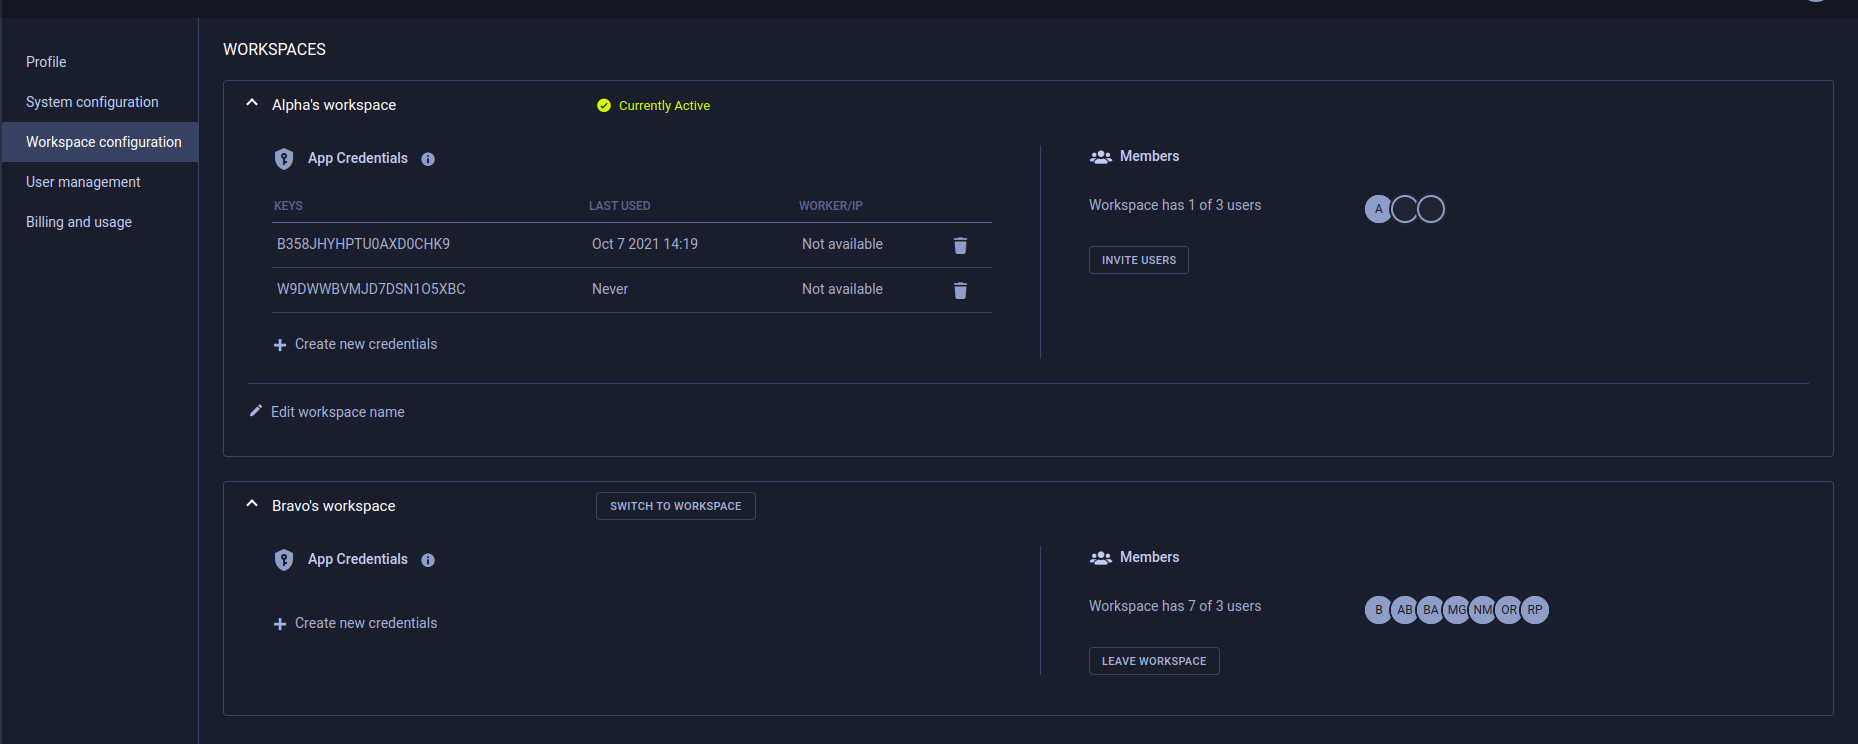
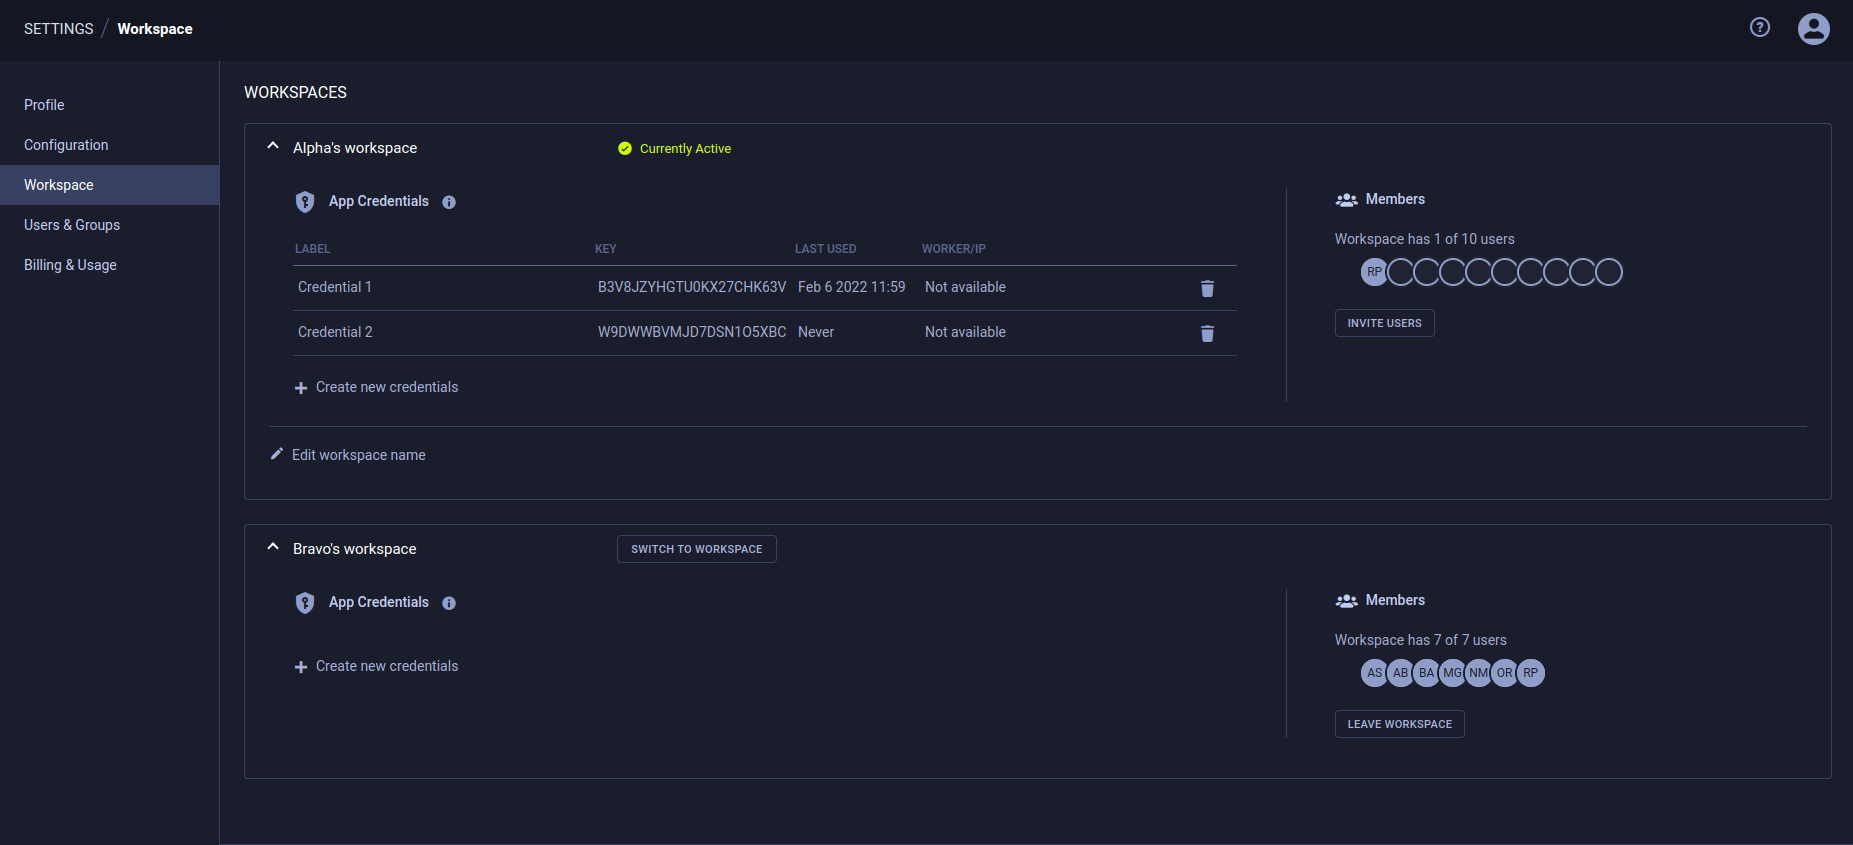
add credentials label info to settings page

diff --git a/docs/webapp/webapp_profile.md b/docs/webapp/webapp_profile.md
@@ -60,7 +60,7 @@ In the **Web App Cloud Access** section, enter the following credentials:
 Multiple workspaces is only available on the ClearML Hosted Service
 :::
 
-ClearML Hosted Service users can be member of multiple workspaces, which are listed under **WORKSPACES**. 
+ClearML Hosted Service users can be members of multiple workspaces, which are listed under **WORKSPACES**. 
 
 To switch to another workspace, click on the **SWITCH TO WORKSPACE** button next to the name of the workspace you want 
 to switch to. 
@@ -76,10 +76,14 @@ You can create credentials for any workspace that you are a member of.
 
 **To create ClearML credentials:**
 
-1. In **WORKSPACES**, expand the desired workspace's panel (self-deployed ClearML Server users have one workspace)
+1. In **WORKSPACE**, expand the desired workspace's panel (self-deployed ClearML Server users have one workspace)
 
-1. In **App Credentials**, click **+ Create new credentials**. A dialog pops up with the new credentials formatted as a
-ready-to-copy configuration file section (including server configuration information)
+1. In **App Credentials**, click **+ Create new credentials**
+
+1. In the dialog that pops up, you can input a label for the new credentials 
+
+The dialog displays new credentials, formatted as a ready-to-copy configuration file section (including server configuration 
+information).
 
 ![ClearML credentials](../img/settings_configuration_creation.png)
 
